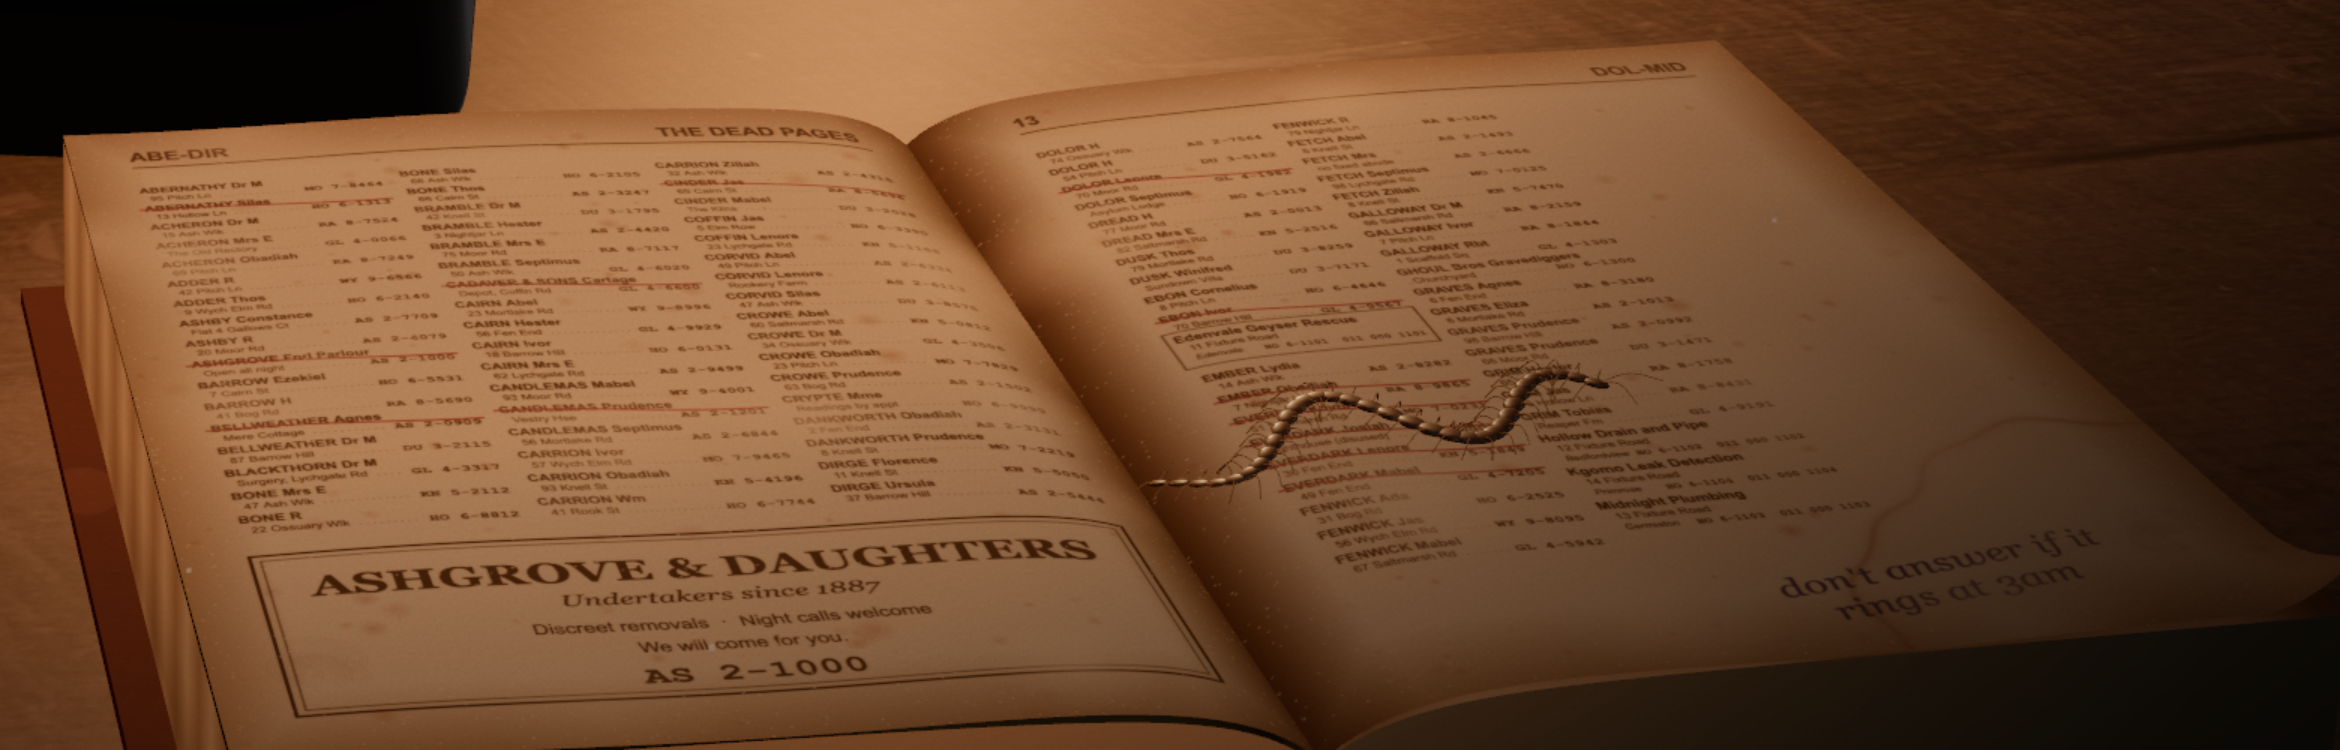
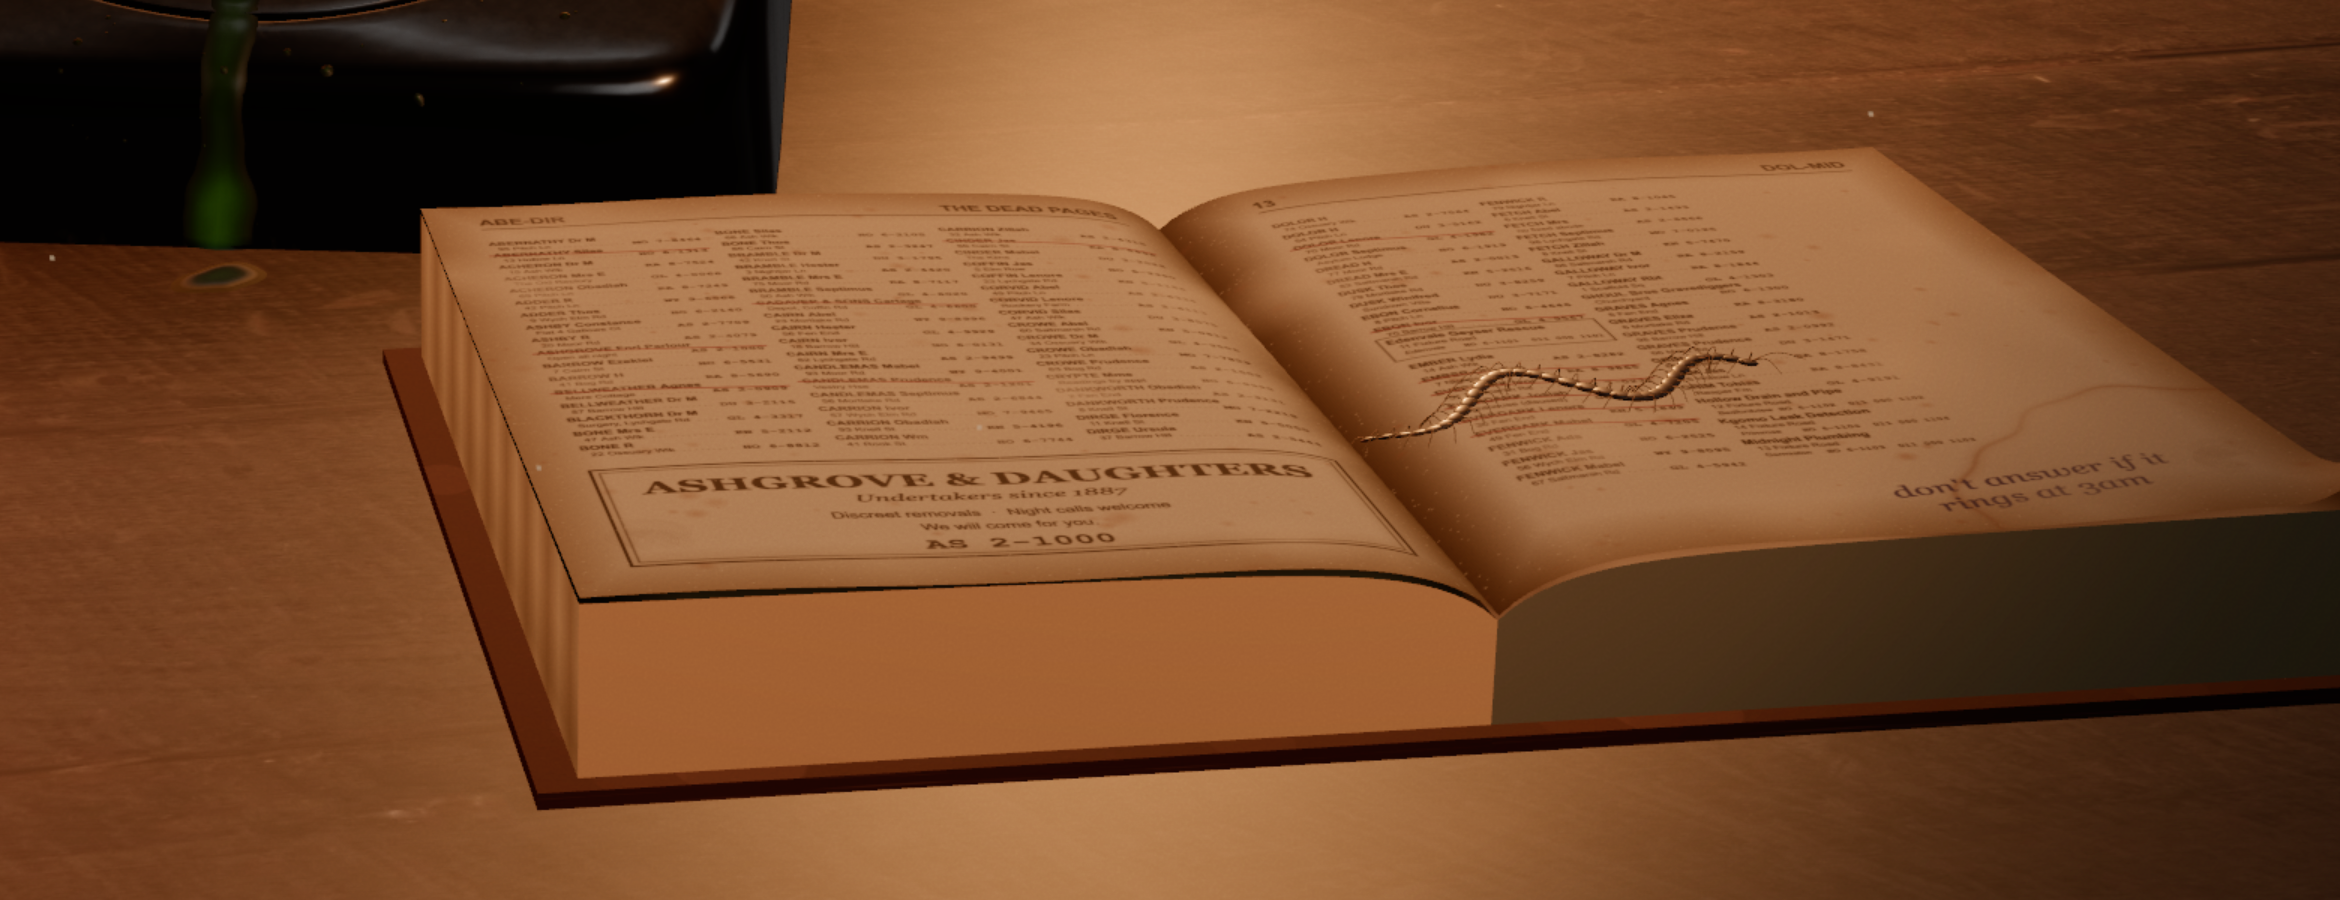
fix: fill both white pages and refresh book renders

diff --git a/tests/render/book.spec.ts b/tests/render/book.spec.ts
@@ -42,6 +42,20 @@ for (const section of ['business', 'white'] as const) {
 test.describe('close-up', () => {
   test.use({ viewport: { width: 1440, height: 900 }, deviceScaleFactor: 3 });
 
+  test('[render] the white pages close up', async ({ page }) => {
+    test.setTimeout(180_000);
+    await page.goto('/dev/phone?book=white');
+    await page.waitForFunction(
+      () => document.querySelector('[aria-hidden="true"].opacity-0') !== null,
+      undefined,
+      { timeout: 150_000 },
+    );
+    await page.waitForTimeout(2500);
+    await page.screenshot({
+      path: `${OUT}/book-scene-white-close.png`,
+      clip: { x: 560, y: 440, width: 780, height: 300 },
+    });
+  });
   test('[render] the business pages close up', async ({ page }) => {
     test.setTimeout(180_000);
     await page.goto('/dev/phone?book=business');
@@ -53,7 +67,29 @@ test.describe('close-up', () => {
     await page.waitForTimeout(2500);
     await page.screenshot({
       path: `${OUT}/book-scene-business-close.png`,
-      clip: { x: 660, y: 650, width: 780, height: 250 },
+      clip: { x: 560, y: 440, width: 780, height: 300 },
     });
   });
 });
+
+for (const [width, height] of [
+  [1440, 900],
+  [1280, 720],
+  [390, 844],
+  [844, 390],
+] as const) {
+  test.describe(`${width}x${height}`, () => {
+    test.use({ viewport: { width, height } });
+    test(`[render] the whole book is in view at ${width} by ${height}`, async ({ page }) => {
+      test.setTimeout(180_000);
+      await page.goto('/dev/phone?book=business');
+      await page.waitForFunction(
+        () => document.querySelector('[aria-hidden="true"].opacity-0') !== null,
+        undefined,
+        { timeout: 150_000 },
+      );
+      await page.waitForTimeout(2500);
+      await page.screenshot({ path: `${OUT}/book-fit-${width}x${height}.png` });
+    });
+  });
+}

diff --git a/components/PhoneCanvas/bookContent.ts b/components/PhoneCanvas/bookContent.ts
@@ -176,11 +176,31 @@ function buildPool(): Filler[] {
 
 const POOL = buildPool();
 
+/**
+ * The white pages are denser than the business pages, 46 px an entry against 49 and no adverts, so
+ * the pool of neighbours is not enough to fill both. Every family gets more relatives.
+ */
+function extraRelatives(): Filler[] {
+  const rnd = seededRandom(SEED + 2);
+  const surnames = new Set(POOL.filter((f) => f.person).map((f) => f.name.split(' ')[0] ?? ''));
+  return [...surnames]
+    .filter((surname) => surname.length > 3)
+    .flatMap((surname) =>
+      Array.from({ length: 3 }, () => ({
+        name: `${surname} ${FIRST[Math.floor(rnd() * FIRST.length)]}`,
+        address: `${1 + Math.floor(rnd() * 98)} ${STREET[Math.floor(rnd() * STREET.length)]}`,
+        digits: `${2 + Math.floor(rnd() * 8)}${String(Math.floor(rnd() * 10000)).padStart(4, '0')}`,
+        person: true,
+      })),
+    );
+}
+const WHITE_POOL = [...POOL.filter((f) => f.person), ...extraRelatives()].sort((a, b) =>
+  a.name.localeCompare(b.name),
+);
 function fillerEntries(white: boolean): BookEntry[] {
   const rnd = seededRandom(SEED + 1);
-  return POOL.filter((f) => !white || f.person).map((f) => toEntry(f, rnd, white));
+  return (white ? WHITE_POOL : POOL).map((f) => toEntry(f, rnd, white));
 }
-
 const isResident = (listing: Listing): listing is ResidentResult => 'surname' in listing;
 
 function realEntry(listing: Listing): BookEntry {

diff --git a/components/PhoneCanvas/bookContent.test.ts b/components/PhoneCanvas/bookContent.test.ts
@@ -165,3 +165,23 @@ describe('the empty book', () => {
     expect(composeBook([business(1)], 'business').empty).toBe(false);
   });
 });
+describe('the white pages fill both pages', () => {
+  it('[Req 6.1] fills all three columns of the left and right pages with entries', () => {
+    const book = composeBook([resident(1), resident(2)], 'white');
+    for (const page of [book.left, book.right]) {
+      const columns = new Set(page.entries.map((p) => p.x));
+      expect(columns.size).toBe(3);
+      for (const x of columns) {
+        expect(page.entries.filter((p) => p.x === x).length).toBeGreaterThanOrEqual(20);
+      }
+    }
+  });
+  it('[Req 6.1] every filler entry is a SURNAME Initial with an address and a number', () => {
+    const fillers = allEntries(composeBook([], 'white'));
+    for (const { entry } of fillers) {
+      expect(entry.name).toMatch(/^[A-Z' &-]+ [A-Za-z]+/);
+      expect(entry.address).not.toBe('');
+      expect(entry.exchange).not.toBe('');
+    }
+  });
+});

diff --git a/playwright.render.config.ts b/playwright.render.config.ts
@@ -4,7 +4,7 @@ import { defineConfig, devices } from '@playwright/test';
  * Renders the dev-only /dev/phone page, which the production build behind the main config
  * does not serve. Run with `pnpm exec playwright test -c playwright.render.config.ts`.
  */
-const URL = 'http://localhost:3000';
+const URL = process.env['RENDER_URL'] ?? 'http://localhost:3000';
 
 export default defineConfig({
   testDir: './tests/render',
